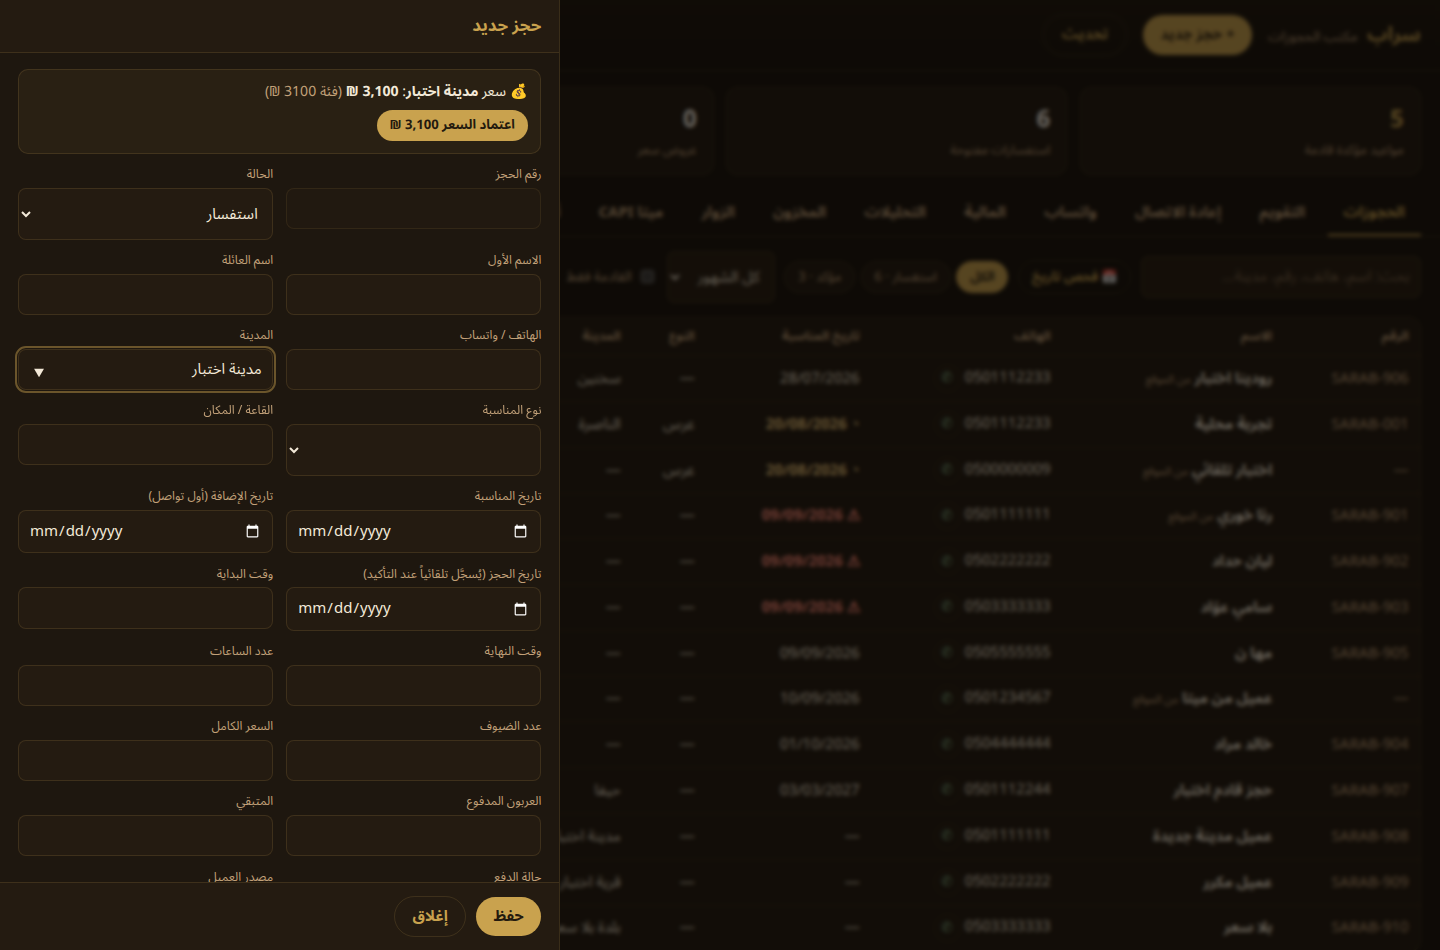
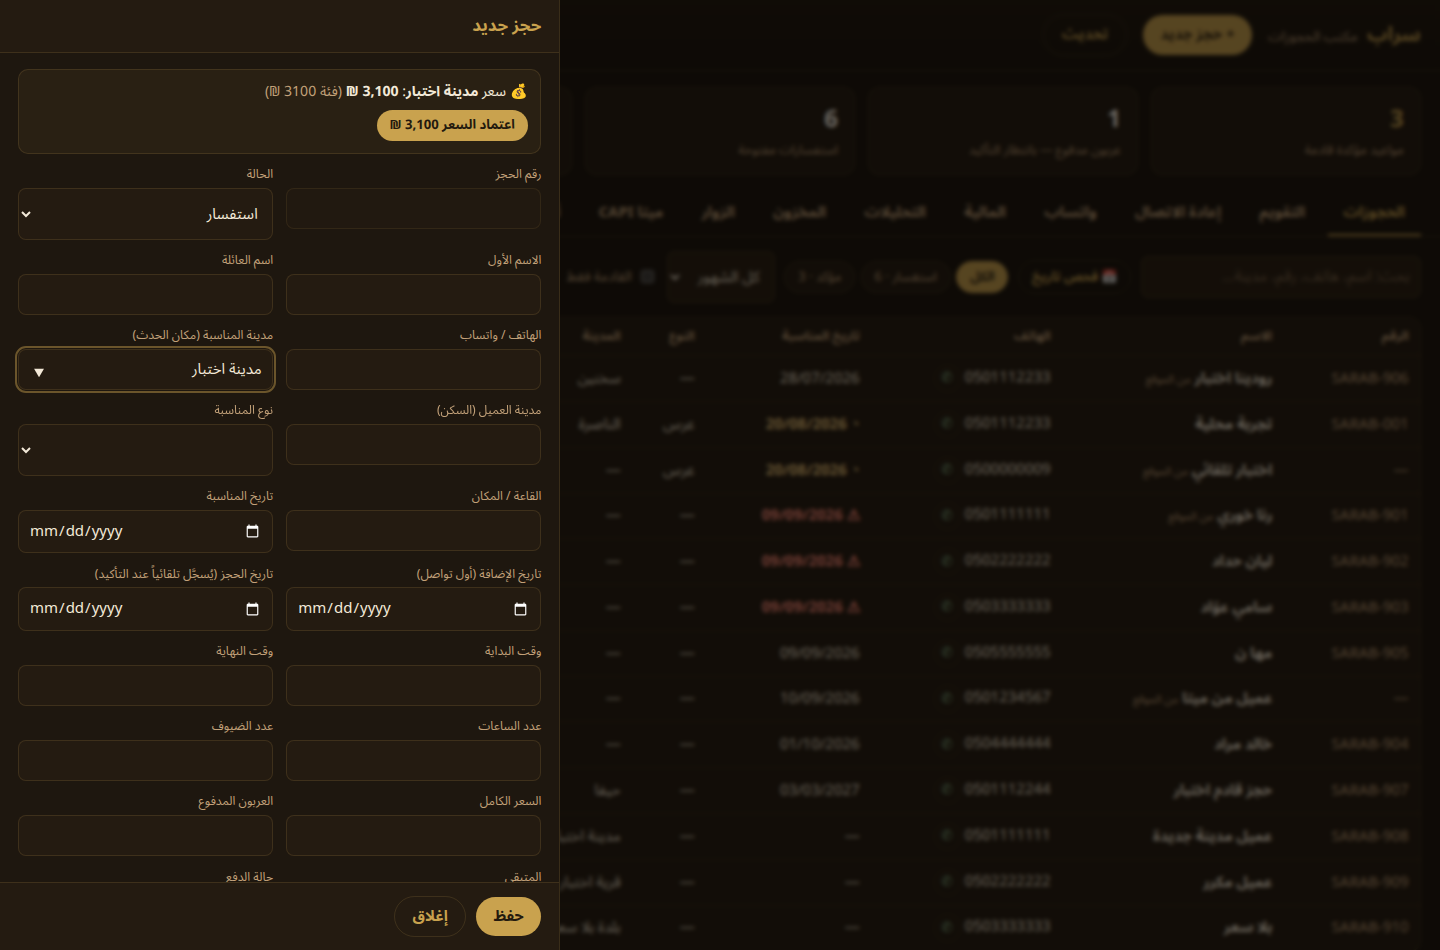
Office: halls organized by city in the drawer + city regions (filter/group/search) in أسعار المدن
- meta.venue_cities (venue×city×count) feeds the drawer: chosen city's halls lead
  the القاعة datalist and appear as one-tap chips; المنطقة auto-fills from the
  city's region (hand-typed values always win)
- cities.region (additive migration, all 74 cities seeded: North 50 / Triangle 13 /
  Centre 4 / Jerusalem 4 / South 3); pricing API validates region; tab gets region
  chips with counts, live search, region-grouped rows, per-row region select
- new _vregion.mjs (17 checks); _vccity + _vcity re-run clean

Claude-Session: https://claude.ai/code/session_018uSvbZSiiZE4CaDmcRPDXB

diff --git a/public/office/index.html b/public/office/index.html
@@ -68,6 +68,16 @@
   }
   .chip.on{color:#231A0E; background:var(--gold); border-color:var(--gold); font-weight:700}
   .chip.ex{color:#FFD9D2; background:rgba(201,60,40,.4); border-color:transparent; text-decoration:line-through; font-weight:700}
+  /* known halls of the chosen city, offered as one-tap chips under القاعة */
+  .vhint{display:flex; flex-wrap:wrap; gap:.3rem; align-items:center; margin-top:.4rem; font-size:.78rem}
+  .vhint:empty{display:none}
+  .vchip{
+    background:rgba(194,161,121,.12); color:var(--gold); border:1px solid rgba(194,161,121,.45);
+    border-radius:999px; padding:.15rem .6rem; font-size:.78rem; cursor:pointer;
+  }
+  .vchip:hover{background:rgba(194,161,121,.25)}
+  /* region group header rows in أسعار المدن */
+  tr.rgroup td{background:rgba(194,161,121,.08); color:var(--gold); font-weight:700; font-size:.85rem}
   .filters select{width:auto}
   label.toggle{display:flex; gap:.35rem; align-items:center; color:var(--muted); font-size:.85rem; white-space:nowrap}
   label.toggle input{width:auto}
@@ -479,6 +489,11 @@ const waLink = (phone) => {
 };
 const esc = (s) => String(s ?? '').replace(/[&<>"']/g, (c) => ({'&':'&amp;','<':'&lt;','>':'&gt;','"':'&quot;',"'":'&#39;'}[c]));
 
+// Same normalization the server's cityMatch uses (shared/intel.js) — keep in sync.
+const normCity = (s) => String(s || '').trim().replace(/^ال/, '').replace(/\s+/g, ' ');
+// Canonical regions for the pricing cities and the drawer's المنطقة field.
+const REGIONS = ['الشمال', 'المثلث', 'المركز', 'القدس', 'الجنوب'];
+
 // الطاقم: one worker per separator (، , ; / +) — how many names were written.
 const staffCount = (s) => String(s ?? '').split(/[,،;/+]/).filter((p) => p.trim()).length;
 // Grid cell: the worker(s), with ×n whenever the recorded count says more than one.
@@ -639,6 +654,8 @@ function renderRows() {
 // ---------- pricing manager (tiers by distance; cities inherit the tier price) ----------
 
 let TIERS = [];
+let cityRegionFilter = 'all';   // 'all' | one of REGIONS | 'none' (unassigned)
+let cityQ = '';                 // live name search in the cities table
 
 async function loadPricing() {
   const { tiers } = await api('/office/api/pricing');
@@ -649,6 +666,38 @@ async function loadPricing() {
 function tierSelect(cls, selected) {
   return `<select class="${cls}">${TIERS.map((t) =>
     `<option value="${t.id}" ${t.id === selected ? 'selected' : ''}>${esc(t.name)} — ${money(t.price)}</option>`).join('')}</select>`;
+}
+
+function regionSelect(cls, selected) {
+  return `<select class="${cls}"><option value="">— بلا منطقة —</option>${REGIONS.map((r) =>
+    `<option value="${r}"${r === selected ? ' selected' : ''}>${r}</option>`).join('')}</select>`;
+}
+
+// The cities table body honours the region chips + the search box. «الكل» groups the
+// list under a header row per region; a specific region (or بدون منطقة) lists plainly.
+function cityRowsHtml() {
+  const cities = TIERS.flatMap((t) => t.cities.map((c) => ({ ...c, price: t.price, tid: t.id })));
+  const q = normCity(cityQ);
+  const shown = cities
+    .filter((c) => (cityRegionFilter === 'all'
+      || (cityRegionFilter === 'none' ? !c.region : c.region === cityRegionFilter))
+      && (!q || normCity(c.name).includes(q)))
+    .sort((a, b) => a.name.localeCompare(b.name, 'ar'));
+  const row = (c) => `<tr data-city="${c.id}">
+    <td>${esc(c.name)}</td>
+    <td>${regionSelect('cityRegion', c.region)}</td>
+    <td>${tierSelect('moveCity', c.tid)}</td>
+    <td class="num">${money(c.price)}</td>
+    <td><button class="btn btn--sm btn--danger delCity" data-name="${esc(c.name)}">✕</button></td>
+  </tr>`;
+  if (!shown.length) return '<tr><td colspan="5" class="muted">لا مدن مطابقة</td></tr>';
+  if (cityRegionFilter !== 'all') return shown.map(row).join('');
+  return [...REGIONS, null].map((g) => {
+    const rows = shown.filter((c) => (g ? c.region === g : !c.region));
+    return rows.length
+      ? `<tr class="rgroup"><td colspan="5">🧭 ${g || 'بدون منطقة'} — ${rows.length} مدينة</td></tr>` + rows.map(row).join('')
+      : '';
+  }).join('');
 }
 
 function renderPricing() {
@@ -673,18 +722,23 @@ function renderPricing() {
       <button class="btn btn--sm" id="addTier">+ إضافة فئة</button>
     </div></div>
 
-    <div class="tablebox"><table>
-      <thead><tr><th>المدينة</th><th>الفئة — غيّرها لنقل المدينة</th><th>السعر</th><th></th></tr></thead>
-      <tbody>${TIERS.flatMap((t) => t.cities.map((c) => `<tr data-city="${c.id}">
-        <td>${esc(c.name)}</td>
-        <td>${tierSelect('moveCity', t.id)}</td>
-        <td class="num">${money(t.price)}</td>
-        <td><button class="btn btn--sm btn--danger delCity" data-name="${esc(c.name)}">✕</button></td>
-      </tr>`)).join('')}
-      </tbody>
+    <div class="tablebox">
+    <div class="filters" style="padding:.75rem .8rem .25rem">
+      <div class="chips">${['all', ...REGIONS, 'none'].map((g) => {
+        const n = g === 'all' ? nCities
+          : TIERS.reduce((s, t) => s + t.cities.filter((c) => (g === 'none' ? !c.region : c.region === g)).length, 0);
+        if (g === 'none' && !n) return '';
+        return `<button class="chip${cityRegionFilter === g ? ' on' : ''}" data-rg="${g}">${g === 'all' ? 'الكل' : g === 'none' ? 'بدون منطقة' : g} (${n})</button>`;
+      }).join('')}</div>
+      <input class="search" id="cq" type="search" placeholder="بحث عن مدينة…" value="${esc(cityQ)}">
+    </div>
+    <table>
+      <thead><tr><th>المدينة</th><th>المنطقة</th><th>الفئة — غيّرها لنقل المدينة</th><th>السعر</th><th></th></tr></thead>
+      <tbody id="cityRows">${cityRowsHtml()}</tbody>
     </table>
     <div class="addrow">
       <input class="name" id="ncName" placeholder="مدينة جديدة…">
+      ${regionSelect('ncRegion', REGIONS.includes(cityRegionFilter) ? cityRegionFilter : '')}
       ${TIERS.length ? tierSelect('ncTier', TIERS[0].id) : ''}
       <button class="btn btn--sm" id="addCity">+ إضافة مدينة</button>
     </div></div>`;
@@ -707,16 +761,23 @@ function renderPricing() {
   });
   $('#addTier').onclick = () =>
     send('POST', { type: 'tier', name: $('#ntName').value, price: $('#ntPrice').value }, 'أُضيفت الفئة ✓', 'تحقق من الاسم والسعر');
-  $$('tr[data-city]', box).forEach((tr) => {
+  const wireCityRows = () => $$('tr[data-city]', box).forEach((tr) => {
     const id = Number(tr.dataset.city);
     $('.moveCity', tr).onchange = (e) =>
       send('PATCH', { type: 'city', id, tier_id: Number(e.target.value) }, 'نُقلت المدينة ✓', 'لم تُنقل');
+    $('.cityRegion', tr).onchange = (e) =>
+      send('PATCH', { type: 'city', id, region: e.target.value }, 'حُدِّثت المنطقة ✓', 'لم تُحدَّث');
     $('.delCity', tr).onclick = (e) => confirm(`حذف "${e.target.dataset.name}" من القائمة؟`) &&
       send('DELETE', { type: 'city', id }, 'حُذفت ✓', 'لم تُحذف');
   });
+  wireCityRows();
+  $$('.chip[data-rg]', box).forEach((b) => b.onclick = () => { cityRegionFilter = b.dataset.rg; renderPricing(); });
+  // Typing re-renders only the body so the search box keeps its focus.
+  $('#cq').oninput = (e) => { cityQ = e.target.value; $('#cityRows').innerHTML = cityRowsHtml(); wireCityRows(); };
   $('#addCity').onclick = () => {
     const sel = $('.ncTier', box);
-    send('POST', { type: 'city', name: $('#ncName').value, tier_id: sel ? Number(sel.value) : 0 }, 'أُضيفت المدينة ✓', 'المدينة موجودة أو الاسم فارغ');
+    send('POST', { type: 'city', name: $('#ncName').value, region: $('.ncRegion', box).value,
+      tier_id: sel ? Number(sel.value) : 0 }, 'أُضيفت المدينة ✓', 'المدينة موجودة أو الاسم فارغ');
   };
 }
 
@@ -1895,7 +1956,7 @@ const F = [
   ['price', 'السعر الكامل', 'number'], ['deposit', 'العربون المدفوع', 'number'],
   ['remaining', 'المتبقي', 'number'], ['payment_status', 'حالة الدفع', 'select:payment_status'],
   ['lead_source', 'مصدر العميل', 'select:lead_source'], ['interest', 'مستوى الاهتمام', 'select:interest'],
-  ['region', 'المنطقة'],
+  ['region', 'المنطقة', 'list:regions'],
   // the two طاقم fields sit on one row together — the names and how many people they are
   ['staff', 'الطاقم — العامل في المناسبة', 'list:staff'], ['staff_count', 'عدد العمال', 'number'],
   ['arrival_time', 'وقت وصولي'], ['package', 'الباقة / النمط'],
@@ -1924,11 +1985,54 @@ function fieldHtml([key, label, kind]) {
     const opts = name === 'cities' ? (state.meta.cities || []).map((c) => c.name)
       : name === 'venues' ? (state.meta.venues || [])
       : name === 'staff' ? (state.meta.staff || [])
+      : name === 'regions' ? REGIONS
       : (state.meta.options[name] || []);
     // datalist id per FIELD, not per list — مدينة المناسبة ومدينة العميل تتشاركان قائمة المدن
     input = `<input id="f_${key}" list="dl_${key}"><datalist id="dl_${key}">${opts.map((o) => `<option value="${esc(o)}">`).join('')}</datalist>`;
   } else input = `<input id="f_${key}">`;
-  return `<div class="field${full}"><label for="f_${key}">${label}</label>${input}</div>`;
+  // القاعة grows a hint row under it: the chosen city's known halls as one-tap chips.
+  const extra = key === 'venue' ? '<div class="vhint" id="venueHint"></div>' : '';
+  return `<div class="field${full}"><label for="f_${key}">${label}</label>${input}${extra}</div>`;
+}
+
+// Halls already used in the typed city (normalized like the server's cityMatch),
+// most-used first — they lead the القاعة datalist and become the one-tap chips.
+function venueCityLists(cityTxt) {
+  const t = normCity(cityTxt);
+  const inCity = new Map();
+  if (t) for (const p of (state.meta.venue_cities || [])) {
+    if (normCity(p.c) === t) inCity.set(p.v, (inCity.get(p.v) || 0) + p.n);
+  }
+  const local = [...inCity.entries()]
+    .sort((a, b) => b[1] - a[1] || a[0].localeCompare(b[0], 'ar'))
+    .map(([v]) => v);
+  return { local, rest: (state.meta.venues || []).filter((v) => !inCity.has(v)) };
+}
+
+function refreshVenueList() {
+  const dl = $('#dl_venue');
+  if (!dl) return;
+  const city = $('#f_city').value;
+  const { local, rest } = venueCityLists(city);
+  dl.innerHTML = [...local, ...rest].map((v) => `<option value="${esc(v)}">`).join('');
+  const hint = $('#venueHint');
+  if (!hint) return;
+  hint.innerHTML = local.length
+    ? `<span class="muted">قاعات ${esc(city.trim())} المعروفة:</span>`
+      + local.slice(0, 10).map((v) => `<button type="button" class="vchip">${esc(v)}</button>`).join('')
+    : '';
+  $$('.vchip', hint).forEach((b) => b.onclick = () => { $('#f_venue').value = b.textContent; loadIntel(); });
+}
+
+// المنطقة follows the chosen city's region from قائمة الأسعار — but only while the
+// owner hasn't typed one: an empty field, or the value we auto-filled, gets updated;
+// anything hand-written (or stored on the booking) is never touched.
+function autofillRegion() {
+  const rf = $('#f_region');
+  if (!rf || (rf.value.trim() && rf.value !== state.regionAuto)) return;
+  const t = normCity($('#f_city').value);
+  const hit = t && (state.meta.cities || []).find((c) => normCity(c.name) === t);
+  if (hit && hit.region) { rf.value = hit.region; state.regionAuto = hit.region; }
 }
 
 // Draft replies in the lead's language (⚠ draft copy — flagged for the owner's sign-off).
@@ -2211,6 +2315,12 @@ function openDrawer(id, presetDate) {
   $('#f_city').addEventListener('input', intelDeb);
   $('#f_venue').addEventListener('input', intelDeb);
   loadIntel();
+  // halls-by-city + region auto-fill follow the city field instantly (no server call)
+  state.regionAuto = null;
+  $('#f_region').addEventListener('input', () => state.regionAuto = null);
+  $('#f_city').addEventListener('input', () => { refreshVenueList(); autofillRegion(); });
+  refreshVenueList();
+  autofillRegion();
   const wa = row && waLink(row.phone);
   $('#waBtn').style.display = wa ? '' : 'none';
   if (wa) $('#waBtn').href = wa;

diff --git a/functions/office/api/meta.js b/functions/office/api/meta.js
@@ -25,7 +25,7 @@ export function staffNames(rows) {
 export async function onRequestGet({ env, data }) {
   const [options, cities, counts, kpi, months, venues, occasions, staff] = await env.DB.batch([
     env.DB.prepare('SELECT kind, value, pos FROM options ORDER BY kind, pos'),
-    env.DB.prepare(`SELECT c.id, c.name, p.price FROM cities c
+    env.DB.prepare(`SELECT c.id, c.name, c.region, p.price FROM cities c
                     JOIN price_tiers p ON p.id = c.tier_id ORDER BY p.price, c.name`),
     env.DB.prepare('SELECT status, COUNT(*) AS n FROM bookings GROUP BY status'),
     env.DB.prepare(`SELECT
@@ -38,9 +38,12 @@ export async function onRequestGet({ env, data }) {
          WHERE status IN ('مؤكد','دفع العربون','مكتمل') AND remaining > 0) AS outstanding`),
     env.DB.prepare(`SELECT DISTINCT substr(event_date, 1, 7) AS m FROM bookings
                     WHERE event_date IS NOT NULL AND length(event_date) >= 7 ORDER BY m DESC`),
-    // halls/venues already used once — offered for reuse, like the workbook's lists
-    env.DB.prepare(`SELECT DISTINCT venue AS v FROM bookings
-                    WHERE venue IS NOT NULL AND venue != '' ORDER BY v`),
+    // halls/venues already used once — offered for reuse, like the workbook's lists.
+    // Kept per (venue, city) with a count so the drawer can put the chosen city's
+    // halls first; the flat list is derived below for everything else.
+    env.DB.prepare(`SELECT venue AS v, city AS c, COUNT(*) AS n FROM bookings
+                    WHERE venue IS NOT NULL AND venue != ''
+                    GROUP BY venue, city ORDER BY v`),
     // event types actually used in bookings (most-used first) — folded into the occasion
     // vocabulary below so the dropdown shows the full real list and auto-grows with new ones
     env.DB.prepare(`SELECT occasion AS o, COUNT(*) AS n FROM bookings
@@ -81,7 +84,8 @@ export async function onRequestGet({ env, data }) {
     statusCounts: Object.fromEntries(counts.results.map((r) => [r.status, r.n])),
     kpi: kpi.results[0],
     months: months.results.map((r) => r.m),
-    venues: venues.results.map((r) => r.v),
+    venues: [...new Set(venues.results.map((r) => r.v))],
+    venue_cities: venues.results,
     staff: staffNames(staff.results),
     // Whether the optional Google Calendar link is switched on (docs/06-GOOGLE-CALENDAR.md).
     // Off = the dashboard hides its button entirely; the التقويم tab is unaffected either way.

diff --git a/functions/office/api/pricing.js b/functions/office/api/pricing.js
@@ -7,10 +7,21 @@
 
 const bad = (error, status = 400) => Response.json({ ok: false, error }, { status })
 
+// Canonical regions (2026-08-28). A city may also have no region yet (NULL).
+const REGIONS = ['الشمال', 'المثلث', 'المركز', 'القدس', 'الجنوب']
+
+// undefined = field absent; null = valid "no region"; string must be canonical.
+function parseRegion(b) {
+  if (b.region === undefined) return undefined
+  const r = String(b.region ?? '').trim()
+  if (!r) return null
+  return REGIONS.includes(r) ? r : false
+}
+
 async function tree(env) {
   const [tiers, cities] = await env.DB.batch([
     env.DB.prepare('SELECT id, name, price, pos FROM price_tiers ORDER BY price, id'),
-    env.DB.prepare('SELECT id, name, tier_id FROM cities ORDER BY name'),
+    env.DB.prepare('SELECT id, name, tier_id, region FROM cities ORDER BY name'),
   ])
   const byTier = {}
   for (const c of cities.results) (byTier[c.tier_id] ??= []).push(c)
@@ -33,10 +44,13 @@ export async function onRequestPost({ request, env }) {
     const name = String(b.name || '').trim().slice(0, 100)
     const tierId = Number(b.tier_id)
     if (!name || !tierId) return bad('invalid-city')
+    const region = parseRegion(b)
+    if (region === false) return bad('invalid-region')
     const tier = await env.DB.prepare('SELECT id FROM price_tiers WHERE id = ?1').bind(tierId).first()
     if (!tier) return bad('no-such-tier')
     try {
-      await env.DB.prepare('INSERT INTO cities (name, tier_id) VALUES (?1, ?2)').bind(name, tierId).run()
+      await env.DB.prepare('INSERT INTO cities (name, tier_id, region) VALUES (?1, ?2, ?3)')
+        .bind(name, tierId, region ?? null).run()
     } catch {
       return bad('city-exists')
     }
@@ -70,6 +84,11 @@ export async function onRequestPatch({ request, env }) {
       const tier = await env.DB.prepare('SELECT id FROM price_tiers WHERE id = ?1').bind(Number(b.tier_id)).first()
       if (!tier) return bad('no-such-tier')
       await env.DB.prepare('UPDATE cities SET tier_id = ?1 WHERE id = ?2').bind(Number(b.tier_id), id).run()
+    }
+    if (b.region !== undefined) {
+      const region = parseRegion(b)
+      if (region === false) return bad('invalid-region')
+      await env.DB.prepare('UPDATE cities SET region = ?1 WHERE id = ?2').bind(region, id).run()
     }
     if (b.name !== undefined) {
       const name = String(b.name).trim().slice(0, 100)

diff --git a/docs/05-DEPLOY-AND-BACKEND.md b/docs/05-DEPLOY-AND-BACKEND.md
@@ -983,3 +983,36 @@ fields per event in «أرباح ومصاريف المناسبات»:
   costs only, PATCH edits/clears with net stable, table columns + values + tfoot
   sums render, editor inputs present, no page errors.
 - Deploy `de79a666` verified: apex 200, /office API 302 to Access.
+
+**2026-08-28 — halls organized by city + city regions (owner request: "make adding a
+client easier").** Two efficiency features in the office dashboard:
+
+- **Halls by city (drawer).** `/office/api/meta` now returns `venue_cities`
+  (venue × event-city × count from booking history) alongside the flat `venues`
+  list. In the booking drawer, typing/choosing مدينة المناسبة instantly (client-side)
+  reorders the القاعة datalist — that city's known halls first, most-used first —
+  and shows them as one-tap `.vchip` chips under the field («قاعات X المعروفة»);
+  tapping a chip fills القاعة and re-runs the intel strip. Normalization matches the
+  server's `cityMatch` (`normCity` in the dashboard — keep in sync with
+  `shared/intel.js`).
+- **City regions (أسعار المدن).** Additive `cities.region` column (migration
+  `db/migrations/2026-08-28-city-regions.sql`) with canonical vocabulary
+  الشمال/المثلث/المركز/القدس/الجنوب; the seed classified all 74 existing cities by
+  name (50/13/4/4/3), guarded `WHERE region IS NULL` so it never overwrites later
+  owner edits. Applied local + remote on backup
+  `ops/db-backups/2026-08-28-pre-city-regions/` — diff-verified 74/74 rows, zero
+  name/tier changes. Tab UI: region filter chips with counts (+ «بدون منطقة» only
+  when non-empty), live city search box (`normCity` matching; re-renders tbody only
+  so focus survives), «الكل» groups rows under 🧭 region header rows, each row gets
+  a region `<select>` (PATCH `{type:'city', region}`), add-city row gets a region
+  select preset to the active filter. `/office/api/pricing` validates region against
+  the canonical list (`invalid-region`), empty string clears to NULL. Cities auto-
+  added by `ensureCityPrice` start region-less and surface under «بدون منطقة».
+- **Region auto-fill (drawer).** المنطقة became a `list:regions` datalist; when the
+  owner picks a city whose pricing entry has a region, an empty المنطقة auto-fills
+  (tracked via `state.regionAuto` — a hand-typed value is never overwritten).
+- New test `_vregion.mjs` (port 8799, 17 checks): pricing region POST/PATCH/clear +
+  invalid-region rejection, meta `venue_cities`/region payloads, drawer hall chips +
+  datalist order + chip fill + region auto-fill + manual-region wins, tab chips/
+  grouping/filter/search/row-select. `_vccity.mjs` + `_vcity.mjs` re-run clean.
+- Deploy `774f7127` verified: apex 200, /office API 302 to Access.
